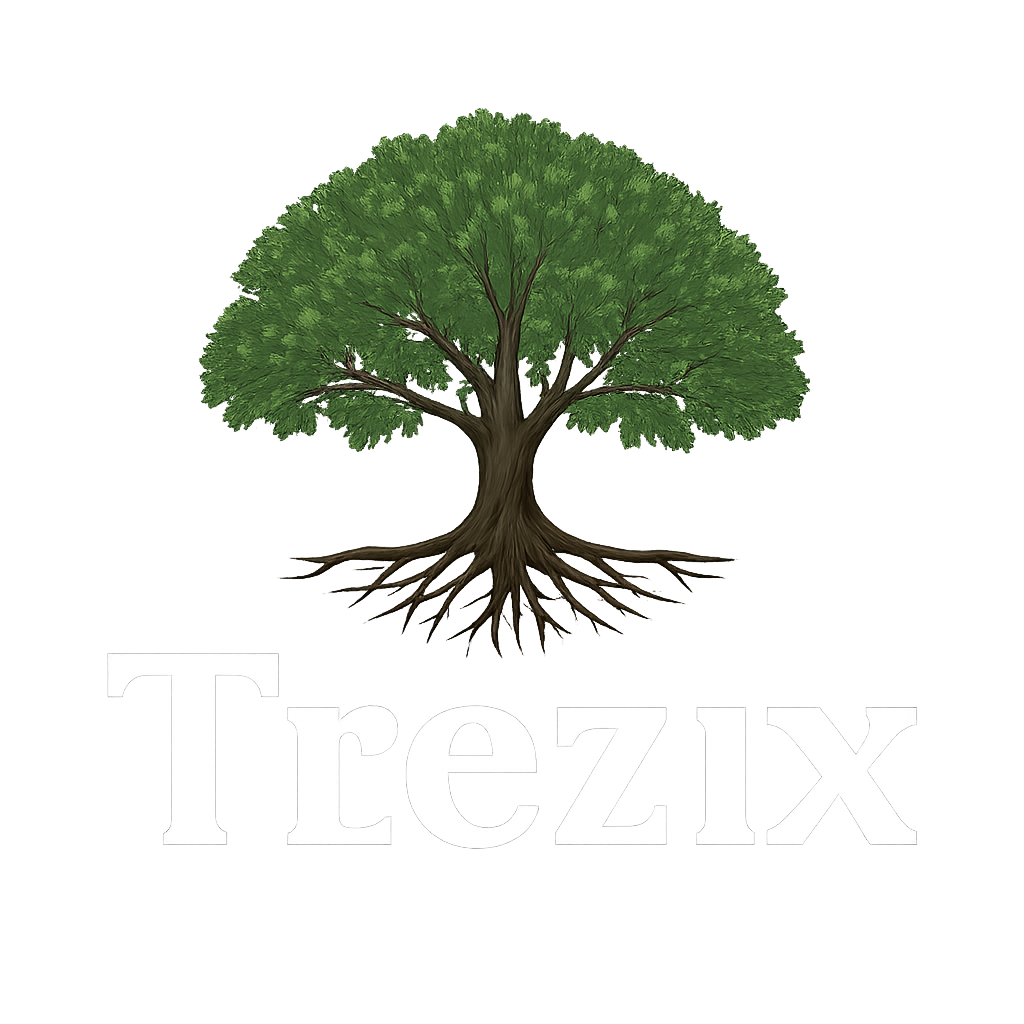
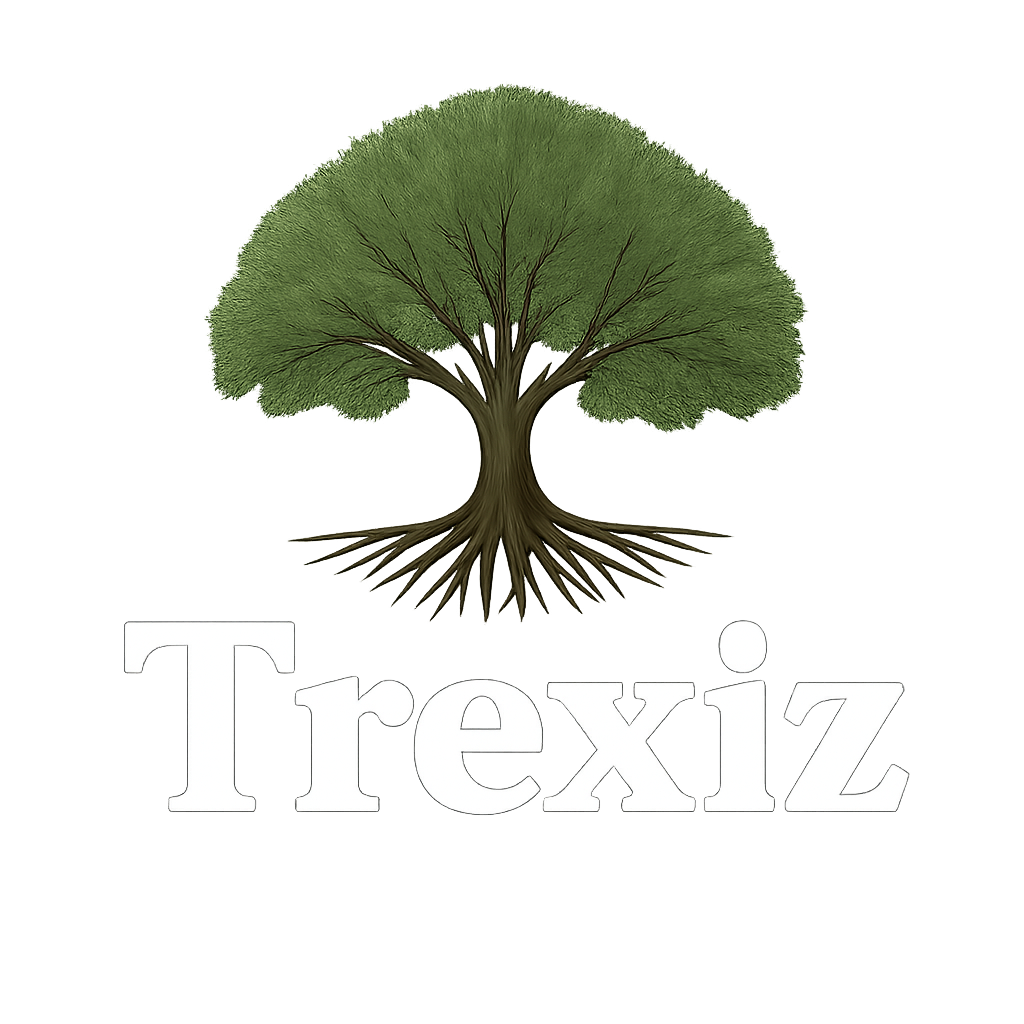
updated the name of the company

diff --git a/src/components/Footer.jsx b/src/components/Footer.jsx
@@ -16,7 +16,7 @@ const Footer = () => {
 
   const resources = [
   { name: "How it works", path: "#how-it-works" },
-  { name: "Why Trexix LTD", path: "#why-trexix" },
+  { name: "Why Trexiz LTD", path: "#why-trexix" },
 ];
 
 
